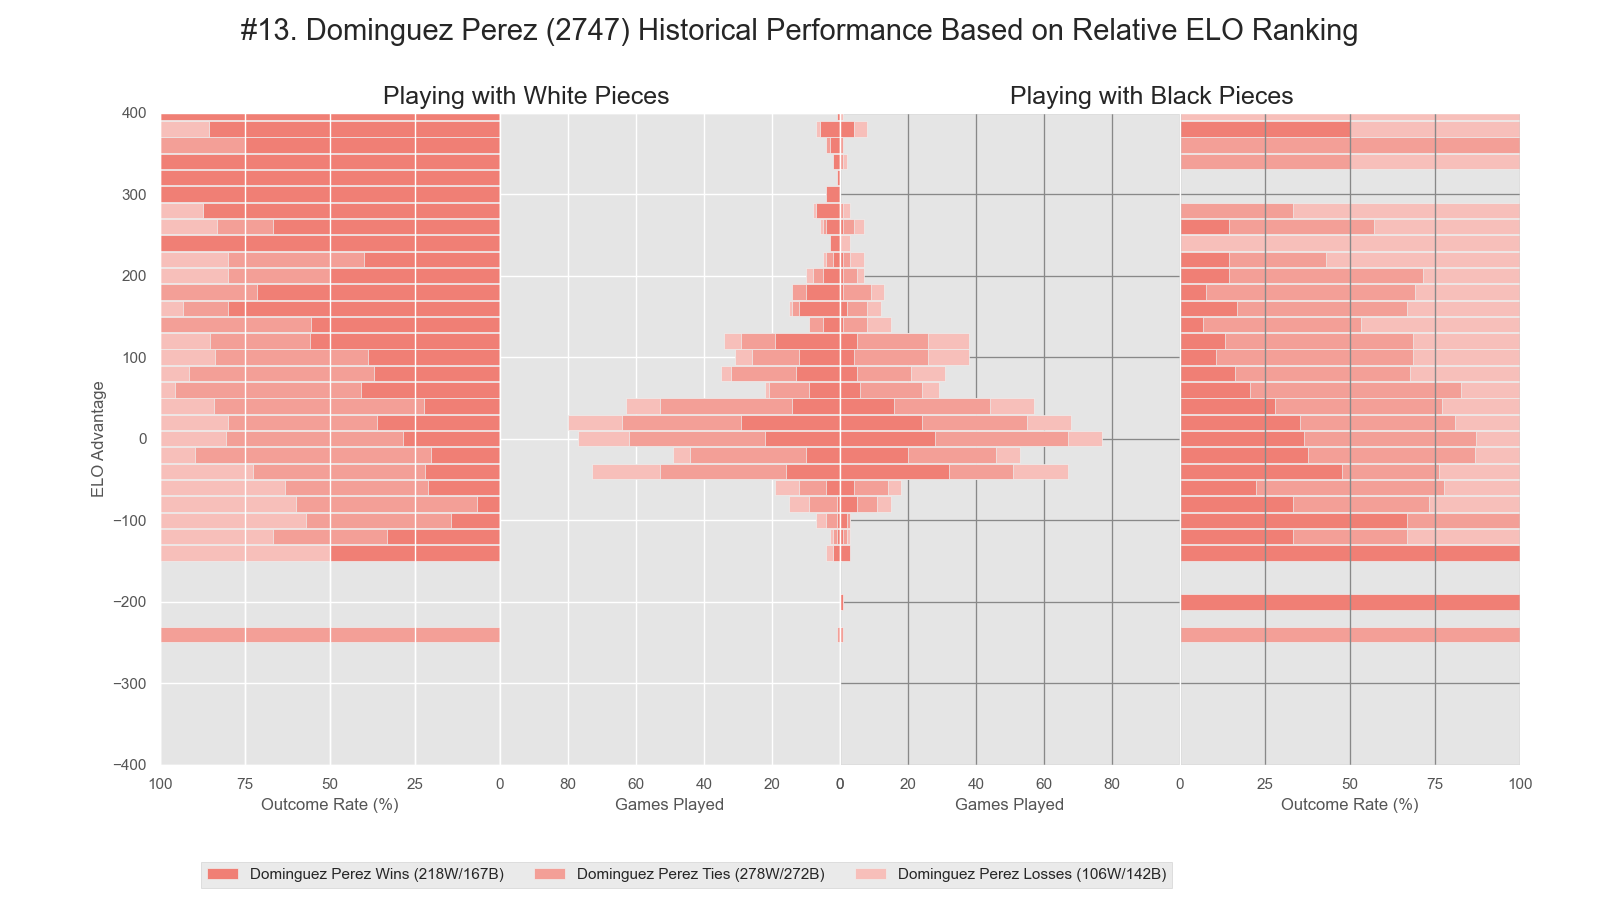
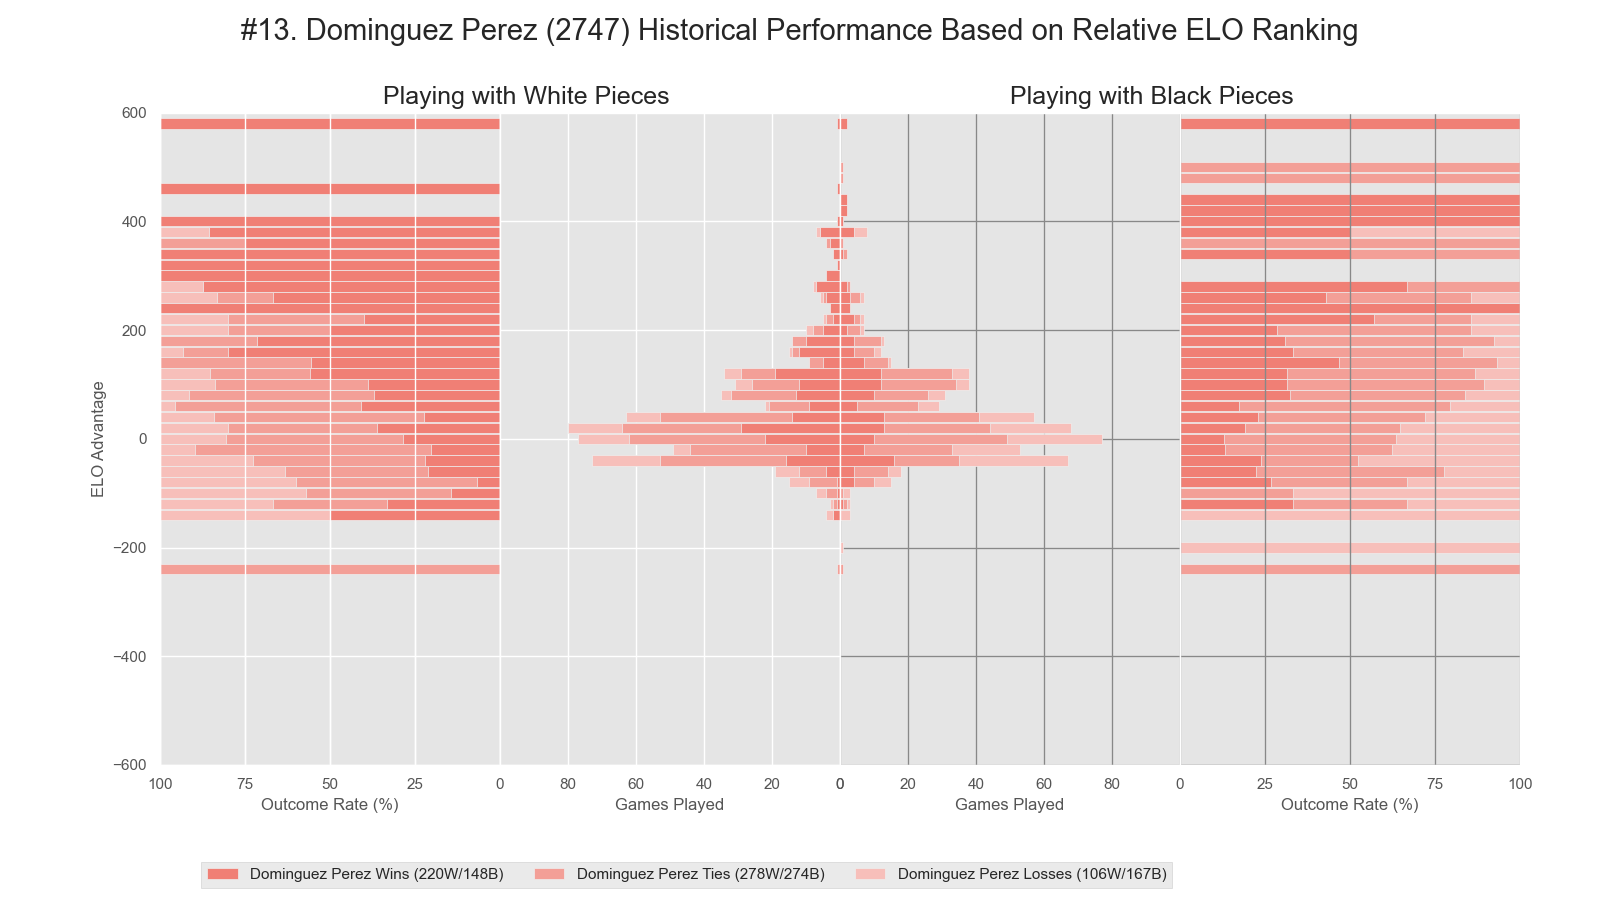
fixed inversion of black piece results
fixed error with identifying wins and losses for the player with black pieces. Also expanded the vertical axes to show more extreme data.

diff --git a/plotGMbins.py b/plotGMbins.py
@@ -64,17 +64,19 @@ def plotGMbins(df_bins,gm_info,elo_pack,DO_SAVE):
     axes[2].plot((60,60),(elo_min,elo_max), linewidth=1,color='#888888',zorder=1)
     axes[2].plot((80,80),(elo_min,elo_max), linewidth=1,color='#888888',zorder=1)
     axes[2].plot((100,100),(elo_min,elo_max), linewidth=1,color='#888888',zorder=1)
-    axes[2].plot((0,100),(500,500), linewidth=1,color='#888888',zorder=1)
+    axes[2].plot((0,100),(600,600), linewidth=1,color='#888888',zorder=1)
+    # axes[2].plot((0,100),(500,500), linewidth=1,color='#888888',zorder=1)
     axes[2].plot((0,100),(400,400), linewidth=1,color='#888888',zorder=1)
-    axes[2].plot((0,100),(300,300), linewidth=1,color='#888888',zorder=1)
+    # axes[2].plot((0,100),(300,300), linewidth=1,color='#888888',zorder=1)
     axes[2].plot((0,100),(200,200), linewidth=1,color='#888888',zorder=1)
-    axes[2].plot((0,100),(100,100), linewidth=1,color='#888888',zorder=1)
+    # axes[2].plot((0,100),(100,100), linewidth=1,color='#888888',zorder=1)
     axes[2].plot((0,100),(0,0), linewidth=1,color='#888888',zorder=1)
-    axes[2].plot((0,100),(-100,-100), linewidth=1,color='#888888',zorder=1)
+    # axes[2].plot((0,100),(-100,-100), linewidth=1,color='#888888',zorder=1)
     axes[2].plot((0,100),(-200,-200), linewidth=1,color='#888888',zorder=1)
-    axes[2].plot((0,100),(-300,-300), linewidth=1,color='#888888',zorder=1)
+    # axes[2].plot((0,100),(-300,-300), linewidth=1,color='#888888',zorder=1)
     axes[2].plot((0,100),(-400,-400), linewidth=1,color='#888888',zorder=1)
-    axes[2].plot((0,100),(-500,-500), linewidth=1,color='#888888',zorder=1)
+    # axes[2].plot((0,100),(-500,-500), linewidth=1,color='#888888',zorder=1)
+    axes[2].plot((0,100),(-600,-600), linewidth=1,color='#888888',zorder=1)
 
     axes[2].barh(df_bins['White ELO Adv'],df_bins['Black Wins']+df_bins['Black Ties']+df_bins['Black Losses'],edgecolor=None,color=faded_colours[colour_index],align='center', height=(elo_stagger/2)-1)
     axes[2].barh(df_bins['White ELO Adv'],df_bins['Black Wins']+df_bins['Black Ties'],edgecolor=None,color=dulled_colours[colour_index],align='center', height=(elo_stagger/2)-1)
@@ -86,17 +88,19 @@ def plotGMbins(df_bins,gm_info,elo_pack,DO_SAVE):
     axes[2].set_xlabel('Games Played')
 
     #SUBPLOT
-    axes[3].plot((0,100),(500,500), linewidth=1,color='#888888',zorder=1)
+    axes[3].plot((0,100),(-600,-600), linewidth=1,color='#888888',zorder=1)
+    # axes[3].plot((0,100),(500,500), linewidth=1,color='#888888',zorder=1)
     axes[3].plot((0,100),(400,400), linewidth=1,color='#888888',zorder=1)
-    axes[3].plot((0,100),(300,300), linewidth=1,color='#888888',zorder=1)
+    # axes[3].plot((0,100),(300,300), linewidth=1,color='#888888',zorder=1)
     axes[3].plot((0,100),(200,200), linewidth=1,color='#888888',zorder=1)
-    axes[3].plot((0,100),(100,100), linewidth=1,color='#888888',zorder=1)
+    # axes[3].plot((0,100),(100,100), linewidth=1,color='#888888',zorder=1)
     axes[3].plot((0,100),(0,0), linewidth=1,color='#888888',zorder=1)
-    axes[3].plot((0,100),(-100,-100), linewidth=1,color='#888888',zorder=1)
+    # axes[3].plot((0,100),(-100,-100), linewidth=1,color='#888888',zorder=1)
     axes[3].plot((0,100),(-200,-200), linewidth=1,color='#888888',zorder=1)
-    axes[3].plot((0,100),(-300,-300), linewidth=1,color='#888888',zorder=1)
+    # axes[3].plot((0,100),(-300,-300), linewidth=1,color='#888888',zorder=1)
     axes[3].plot((0,100),(-400,-400), linewidth=1,color='#888888',zorder=1)
-    axes[3].plot((0,100),(-500,-500), linewidth=1,color='#888888',zorder=1)
+    # axes[3].plot((0,100),(-500,-500), linewidth=1,color='#888888',zorder=1)
+    axes[3].plot((0,100),(-600,-600), linewidth=1,color='#888888',zorder=1)
     axes[3].barh(df_bins['White ELO Adv'],df_bins['Black Win %']+df_bins['Black Tie %']+df_bins['Black Loss %'],edgecolor=None,color=faded_colours[colour_index], align='center',height=(elo_stagger/2)-1)
     axes[3].barh(df_bins['White ELO Adv'],df_bins['Black Win %']+df_bins['Black Tie %'],edgecolor=None,color=dulled_colours[colour_index], align='center',height=(elo_stagger/2)-1)
     axes[3].barh(df_bins['White ELO Adv'],df_bins['Black Win %'],edgecolor=None,color=full_colours[colour_index],align='center', height=(elo_stagger/2)-1)
@@ -170,17 +174,19 @@ def plot2GMbins(df_bins1,df_bins2,gm1_info,gm2_info,elo_pack,DO_SAVE):
     axes[2].plot((60,60),(elo_min,elo_max), linewidth=1,color='#888888',zorder=1)
     axes[2].plot((80,80),(elo_min,elo_max), linewidth=1,color='#888888',zorder=1)
     axes[2].plot((100,100),(elo_min,elo_max), linewidth=1,color='#888888',zorder=1)
-    axes[2].plot((0,100),(500,500), linewidth=1,color='#888888',zorder=1)
+    axes[2].plot((0,100),(600,600), linewidth=1,color='#888888',zorder=1)
+    # axes[2].plot((0,100),(500,500), linewidth=1,color='#888888',zorder=1)
     axes[2].plot((0,100),(400,400), linewidth=1,color='#888888',zorder=1)
-    axes[2].plot((0,100),(300,300), linewidth=1,color='#888888',zorder=1)
+    # axes[2].plot((0,100),(300,300), linewidth=1,color='#888888',zorder=1)
     axes[2].plot((0,100),(200,200), linewidth=1,color='#888888',zorder=1)
-    axes[2].plot((0,100),(100,100), linewidth=1,color='#888888',zorder=1)
+    # axes[2].plot((0,100),(100,100), linewidth=1,color='#888888',zorder=1)
     axes[2].plot((0,100),(0,0), linewidth=1,color='#888888',zorder=1)
-    axes[2].plot((0,100),(-100,-100), linewidth=1,color='#888888',zorder=1)
+    # axes[2].plot((0,100),(-100,-100), linewidth=1,color='#888888',zorder=1)
     axes[2].plot((0,100),(-200,-200), linewidth=1,color='#888888',zorder=1)
-    axes[2].plot((0,100),(-300,-300), linewidth=1,color='#888888',zorder=1)
+    # axes[2].plot((0,100),(-300,-300), linewidth=1,color='#888888',zorder=1)
     axes[2].plot((0,100),(-400,-400), linewidth=1,color='#888888',zorder=1)
-    axes[2].plot((0,100),(-500,-500), linewidth=1,color='#888888',zorder=1)
+    # axes[2].plot((0,100),(-500,-500), linewidth=1,color='#888888',zorder=1)
+    axes[2].plot((0,100),(-600,-600), linewidth=1,color='#888888',zorder=1)
 
     axes[2].barh(df_bins1['White ELO Adv']-(elo_stagger/2-1)/2,df_bins1['Black Wins']+df_bins1['Black Ties']+df_bins1['Black Losses'],edgecolor=None,color=faded_colours[colour_index1],align='center', height=(elo_stagger/2)-1)
     axes[2].barh(df_bins1['White ELO Adv']-(elo_stagger/2-1)/2,df_bins1['Black Wins']+df_bins1['Black Ties'],edgecolor=None,color=dulled_colours[colour_index1],align='center', height=(elo_stagger/2)-1)
@@ -195,17 +201,19 @@ def plot2GMbins(df_bins1,df_bins2,gm1_info,gm2_info,elo_pack,DO_SAVE):
     axes[2].set_xlabel('Games Played')
 
     #SUBPLOT
-    axes[3].plot((0,100),(500,500), linewidth=1,color='#888888',zorder=1)
+    axes[3].plot((0,100),(600,600), linewidth=1,color='#888888',zorder=1)
+    # axes[3].plot((0,100),(500,500), linewidth=1,color='#888888',zorder=1)
     axes[3].plot((0,100),(400,400), linewidth=1,color='#888888',zorder=1)
-    axes[3].plot((0,100),(300,300), linewidth=1,color='#888888',zorder=1)
+    # axes[3].plot((0,100),(300,300), linewidth=1,color='#888888',zorder=1)
     axes[3].plot((0,100),(200,200), linewidth=1,color='#888888',zorder=1)
-    axes[3].plot((0,100),(100,100), linewidth=1,color='#888888',zorder=1)
+    # axes[3].plot((0,100),(100,100), linewidth=1,color='#888888',zorder=1)
     axes[3].plot((0,100),(0,0), linewidth=1,color='#888888',zorder=1)
-    axes[3].plot((0,100),(-100,-100), linewidth=1,color='#888888',zorder=1)
+    # axes[3].plot((0,100),(-100,-100), linewidth=1,color='#888888',zorder=1)
     axes[3].plot((0,100),(-200,-200), linewidth=1,color='#888888',zorder=1)
-    axes[3].plot((0,100),(-300,-300), linewidth=1,color='#888888',zorder=1)
+    # axes[3].plot((0,100),(-300,-300), linewidth=1,color='#888888',zorder=1)
     axes[3].plot((0,100),(-400,-400), linewidth=1,color='#888888',zorder=1)
-    axes[3].plot((0,100),(-500,-500), linewidth=1,color='#888888',zorder=1)
+    # axes[3].plot((0,100),(-500,-500), linewidth=1,color='#888888',zorder=1)
+    axes[3].plot((0,100),(-600,-600), linewidth=1,color='#888888',zorder=1)
     axes[3].barh(df_bins1['White ELO Adv']-(elo_stagger/2-1)/2,df_bins1['Black Win %']+df_bins1['Black Tie %']+df_bins1['Black Loss %'],edgecolor=None,color=faded_colours[colour_index1], align='center',height=(elo_stagger/2)-1)
     axes[3].barh(df_bins1['White ELO Adv']-(elo_stagger/2-1)/2,df_bins1['Black Win %']+df_bins1['Black Tie %'],edgecolor=None,color=dulled_colours[colour_index1], align='center',height=(elo_stagger/2)-1)
     axes[3].barh(df_bins1['White ELO Adv']-(elo_stagger/2-1)/2,df_bins1['Black Win %'],edgecolor=None,color=full_colours[colour_index1],align='center', height=(elo_stagger/2)-1)

diff --git a/binGM.py b/binGM.py
@@ -5,7 +5,7 @@ class binGM:
     def __init__(self, gm_info,elo_pack ):
         playername,playerrank,playerelo,colour_index = gm_info
         elo_min, elo_max, elo_step, elo_stagger = elo_pack
-        
+
         bins=np.arange(elo_min,elo_max+1,elo_step)
 
         df_games=pd.read_csv(f'extracted/{playername}.txt', sep='\t', header=0, dtype={'White': 'string','White ELO': 'int','Black': 'string','Black ELO': 'int','Result': 'string','Date': 'string'})
@@ -24,11 +24,13 @@ class binGM:
         df_games.insert(loc=7,column='White Outcome',value='')
 
         #parse outcome column and change to Win/Tie/Loss
-        df_games.loc[df_games['Result']=='1/2-1/2','White Outcome']='Tie'
-        df_games.loc[(df_games['Result']=='1-0') & (white_inds),'White Outcome']='Win'
-        df_games.loc[(df_games['Result']=='0-1') & (white_inds),'White Outcome']='Loss'
-        df_games.loc[(df_games['Result']=='1-0') & (black_inds),'White Outcome']='Loss'
-        df_games.loc[(df_games['Result']=='0-1') & (black_inds),'White Outcome']='Win'
+        df_games.loc[df_games['Result']=='1/2-1/2', 'White Outcome']='Tie'
+        df_games.loc[(df_games['Result']=='1-0'), 'White Outcome']='Win'
+        df_games.loc[(df_games['Result']=='0-1'), 'White Outcome']='Loss'
+        # df_games.loc[(df_games['Result']=='1-0') & (white_inds),'White Outcome']='Win'
+        # df_games.loc[(df_games['Result']=='0-1') & (white_inds),'White Outcome']='Loss'
+        # df_games.loc[(df_games['Result']=='1-0') & (black_inds),'White Outcome']='Win'
+        # df_games.loc[(df_games['Result']=='0-1') & (black_inds),'White Outcome']='Loss'
 
         
         # Create the pandas DataFrame with column name is provided explicitly
@@ -43,6 +45,7 @@ class binGM:
             df_bins.loc[this_index,'Black Wins']=df_games[(df_games['White Outcome']=='Loss') & (black_inds) & (-df_games['White ELO Adv']>=this_elo['White ELO Adv']-elo_step/2) & (-df_games['White ELO Adv']<this_elo['White ELO Adv']+elo_step/2) ].shape[0]
             df_bins.loc[this_index,'Black Ties']=df_games[(df_games['White Outcome']=='Tie') & (black_inds) & (-df_games['White ELO Adv']>=this_elo['White ELO Adv']-elo_step/2) & (-df_games['White ELO Adv']<this_elo['White ELO Adv']+elo_step/2) ].shape[0]
             df_bins.loc[this_index,'Black Losses']=df_games[(df_games['White Outcome']=='Win') & (black_inds) & (-df_games['White ELO Adv']>=this_elo['White ELO Adv']-elo_step/2) & (-df_games['White ELO Adv']<this_elo['White ELO Adv']+elo_step/2) ].shape[0]
+            
 
         #Add count columnt
         df_bins['White Count']=df_bins['White Wins']+df_bins['White Ties']+df_bins['White Losses']

diff --git a/main.py b/main.py
@@ -30,8 +30,8 @@ SAVE_COMP=True
 
 elo_stagger=20
 elo_step=20
-elo_min=-400
-elo_max=400
+elo_min=-600
+elo_max=600
 elo_pack=[elo_min, elo_max, elo_step, elo_stagger]
 
 ################### PROCESS RESULTS FILES ##########################################
